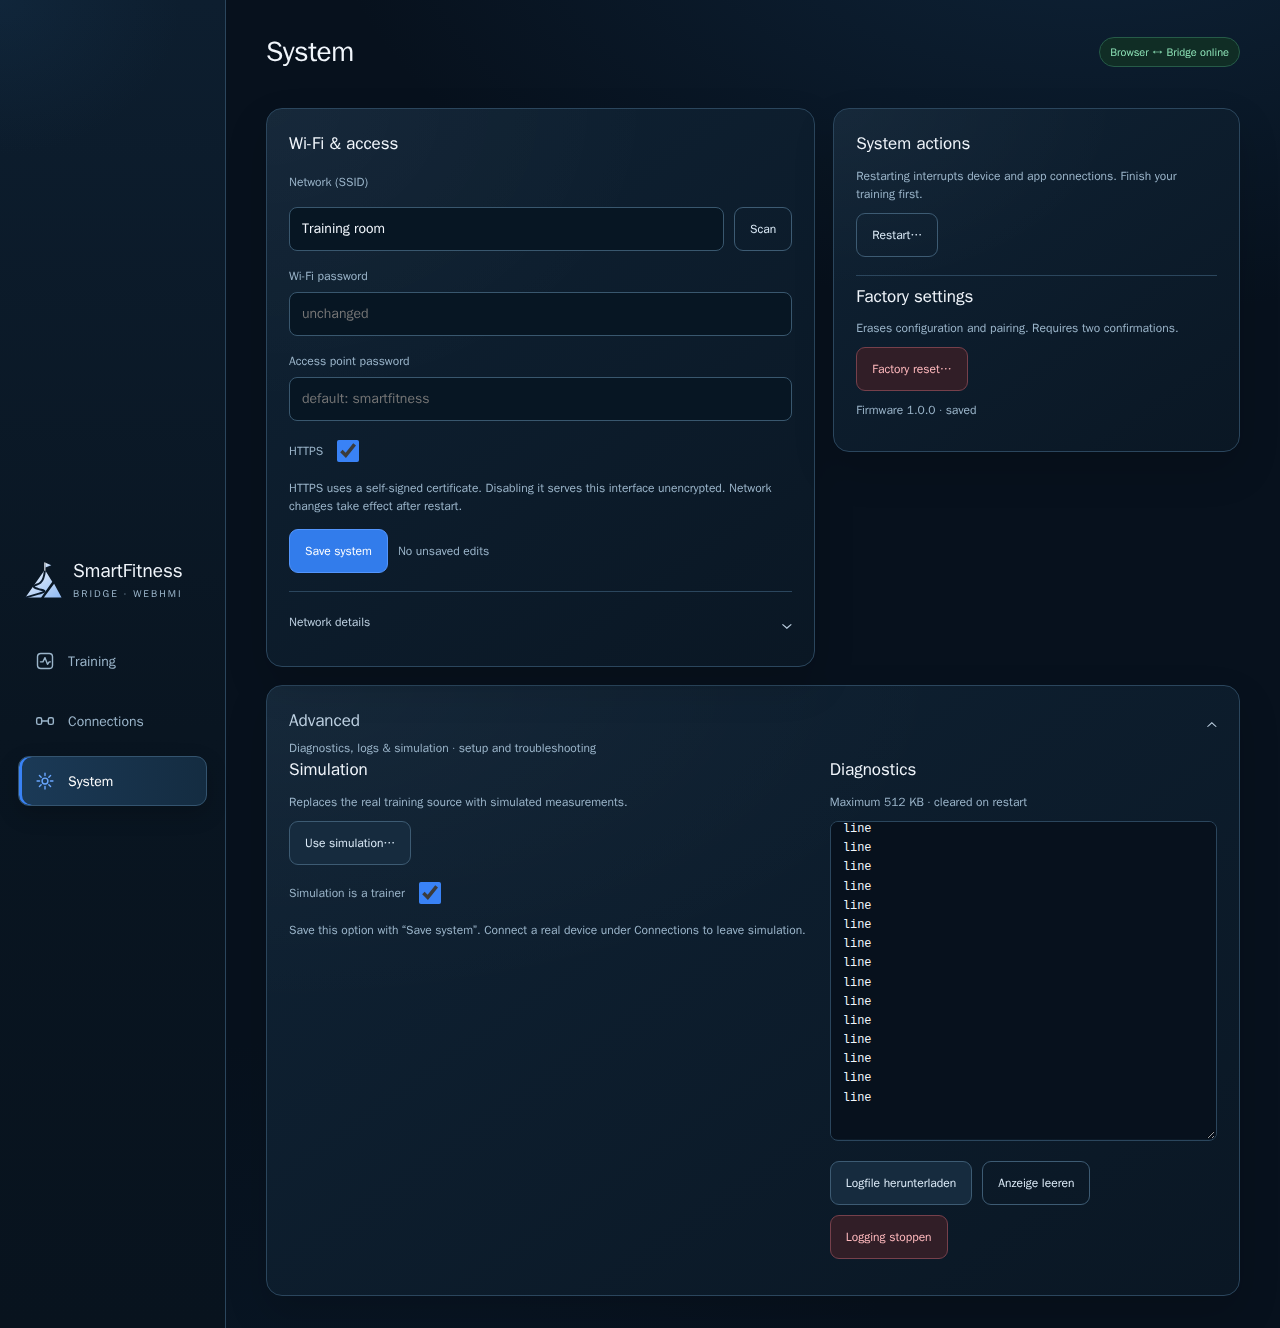
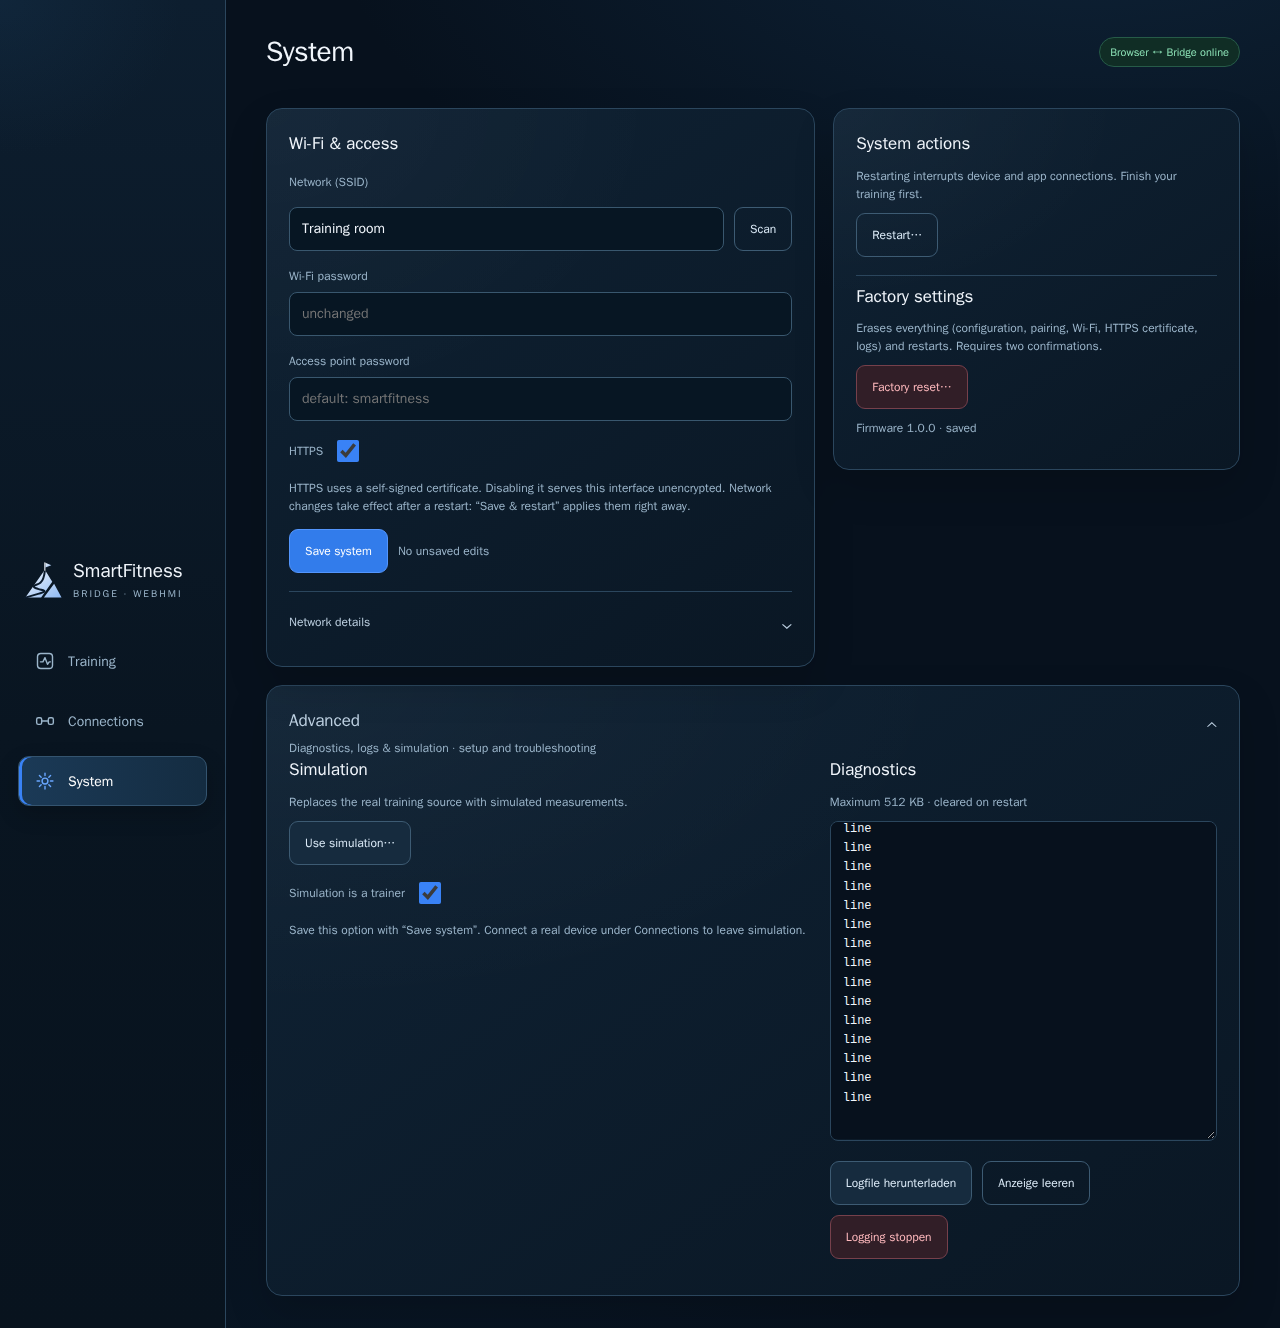
Save & restart for network settings in the web UI
Wi-Fi, access point and HTTPS settings only apply after a restart. When
they differ from the saved configuration, the System save button reads
"Save & restart", asks for confirmation, saves, restarts the bridge and
tells where to reconnect. Other system edits keep the plain save.

Changed region(s): [[0.6562, 0.247, 0.875, 0.3396], [0.5, 0.3705, 0.5312, 0.4014], [0.4375, 0.3705, 0.4688, 0.4014]]

diff --git a/src/variants/web/assets/index.html b/src/variants/web/assets/index.html
@@ -73,7 +73,7 @@ details{min-width:0}summary{cursor:pointer;color:#bed1e2;font-size:12px;min-heig
 <section id="set" role="tabpanel" aria-labelledby="tab-set" tabindex="0" hidden><h2>System</h2><div class="two-column">
 <div class="card" id="network-settings"><h3>Wi-Fi & access</h3><label class="field" for="c-wifiSsid"><span>Network (SSID)</span></label><div class="row"><div class="combo"><input id="c-wifiSsid" maxlength="32" placeholder="empty = access point only" role="combobox" aria-autocomplete="none" aria-expanded="false" aria-controls="wifi-list" autocomplete="off"><ul id="wifi-list" role="listbox" aria-label="Wi-Fi networks" hidden></ul></div><button class="b sec" id="btn-wifi-scan" aria-busy="false"><span class="spin" aria-hidden="true"></span>Scan</button></div>
 <label class="field"><span>Wi-Fi password</span><input id="c-wifiPassword" type="password" maxlength="63" placeholder="unchanged"></label><label class="field"><span>Access point password</span><input id="c-apPassword" type="password" maxlength="63" placeholder="unchanged"></label><div class="row"><label for="c-https">HTTPS</label><input id="c-https" type="checkbox"></div>
-<p class="small">HTTPS uses a self-signed certificate. Disabling it serves this interface unencrypted. Network changes take effect after restart.</p><div class="row"><button class="b primary" id="btn-save">Save system</button><span id="system-dirty" class="small" role="status">No unsaved edits</span></div><details class="technical"><summary>Network details</summary><div id="s-net"></div></details></div>
+<p class="small">HTTPS uses a self-signed certificate. Disabling it serves this interface unencrypted. Network changes take effect after a restart: “Save & restart” applies them right away.</p><div class="row"><button class="b primary" id="btn-save">Save system</button><span id="system-dirty" class="small" role="status">No unsaved edits</span></div><details class="technical"><summary>Network details</summary><div id="s-net"></div></details></div>
 <div class="card"><h3>System actions</h3><p class="small">Restarting interrupts device and app connections. Finish your training first.</p><button class="b sec" id="btn-restart">Restart…</button><div class="technical"><h3>Factory settings</h3><p class="small">Erases everything (configuration, pairing, Wi-Fi, HTTPS certificate, logs) and restarts. Requires two confirmations.</p><button class="b danger" id="btn-reset">Factory reset…</button></div><p class="small">Firmware <span id="fw"></span> · <span id="unsaved"></span></p></div></div>
 <details class="card system-advanced" id="advanced"><summary><div><h3>Advanced</h3><span class="small">Diagnostics, logs & simulation · setup and troubleshooting</span></div></summary><div class="two-column">
 <div><h3>Simulation</h3><p class="small">Replaces the real training source with simulated measurements.</p><button class="b" id="btn-sim">Use simulation…</button><div class="row"><label for="c-simulatedTrainer">Simulation is a trainer</label><input id="c-simulatedTrainer" type="checkbox"></div><p class="small">Save this option with “Save system”. Connect a real device under Connections to leave simulation.</p></div>
@@ -87,10 +87,14 @@ details{min-width:0}summary{cursor:pointer;color:#bed1e2;font-size:12px;min-heig
 const $=id=>document.getElementById(id);
 let status={},scan={devices:[],adapters:[]},pending={};
 const dirty=new Set();
+let cfgHttps=location.protocol==="https:",cfgSsid="";
 const editVersion={output:0,system:0};
 let configLoaded=false,configSaving=false;
 function markDirty(scope){dirty.add(scope);editVersion[scope]++;renderDirty()}
-function renderDirty(){for(const scope of["output","system"])$(scope+"-dirty").textContent=dirty.has(scope)?"Unsaved edits":"No unsaved edits"}
+function renderDirty(){for(const scope of["output","system"])$(scope+"-dirty").textContent=dirty.has(scope)?"Unsaved edits":"No unsaved edits";
+ $("btn-save").textContent=networkChanged()?"Save & restart":"Save system"}
+// Wi-Fi, access point and HTTPS settings only take effect after a restart.
+function networkChanged(){return $("c-wifiSsid").value!==cfgSsid||!!$("c-wifiPassword").value||!!$("c-apPassword").value||$("c-https").checked!==cfgHttps}
 let serviceMasks={ftms:0,ant:0},antAvailable=false,configuredFtmsServices=0,outputDirty=false,configuredOutput="ble-ftms";
 const outputServices={ftms:[["ftms","FTMS",1],["cps","CPS",2],["hr","HR",4],["csc","CSC",8],["rsc","RSC",16]],ant:[["fec","FE-C",1],["power","Power",2],["hr","HR",4],["speed-cadence","Speed / cadence",8],["sdm","Footpod",16]]};
 function outputEntries(kind){return kind==="ftms"?(status.ftmsOutput||{}).services||[]:(status.antOutput||{}).channels||[]}
@@ -303,7 +307,6 @@ function renderScan(sc){
    btn.disabled=true;await run("pair",{address:d.address,addressType:d.addressType,adapter:sel.value});btn.disabled=false};
   const svc=el("td",(d.services||[]).join(" "),"small"),ad=el("td"),act=el("td");ad.append(sel);act.append(btn);
   const rssi=el("td",d.rssi);rssi.dataset.label="RSSI";svc.dataset.label="Services";ad.dataset.label="Adapter";tr.append(name,rssi,svc,ad,act);return tr}));}
-let cfgHttps=location.protocol==="https:";
 function renderConfig(c){
  configLoaded=true;
  if(!dirty.has("output")){
@@ -314,7 +317,7 @@ function renderConfig(c){
  $("c-outputHint").hidden=$("c-outputProtocol").value!=="ant-fec";
  $("c-ftmsOutputProfile").value=c.ftmsOutputProfile||"auto";renderBridge();
  }
- cfgHttps=c.https!==false;
+ cfgHttps=c.https!==false;cfgSsid=c.wifiSsid||"";
  if(!dirty.has("system")){
  $("c-simulatedTrainer").checked=!!c.simulatedTrainer;$("c-https").checked=cfgHttps;
  $("c-wifiSsid").value=c.wifiSsid||"";$("c-wifiPassword").value="";$("c-apPassword").value="";
@@ -328,11 +331,11 @@ $("btn-connect").onclick=()=>run("connect");$("btn-disconnect").onclick=()=>run(
 $("c-outputProtocol").onchange=()=>{outputDirty=$("c-outputProtocol").value!==configuredOutput;$("c-outputHint").hidden=$("c-outputProtocol").value!=="ant-fec";renderBridge();renderServiceControls()};
 for(const[id,scope]of[["card-bridge","output"],["network-settings","system"],["advanced","system"]])for(const event of["input","change"])$(id).addEventListener(event,e=>{if(e.target.matches("input,select"))markDirty(scope)});
 $("btn-discard-output").onclick=()=>{dirty.delete("output");outputDirty=false;loadConfig()};
-async function saveConfig(scope,body){
+async function saveConfig(scope,body,quiet){
  if(configSaving)return;
  if(!configLoaded){toast("Load settings before saving.",false);return}
  const version=editVersion[scope];configSaving=true;$("btn-save").disabled=true;$("btn-output").disabled=true;
- try{const r=await run("config",{...body,save:true});if(r?.ok){if(editVersion[scope]===version)dirty.delete(scope);if(scope==="output"&&!dirty.has(scope))outputDirty=false;await loadConfig()}}
+ try{const r=await run("config",{...body,save:true},quiet);if(r?.ok){if(editVersion[scope]===version)dirty.delete(scope);if(scope==="output"&&!dirty.has(scope))outputDirty=false;await loadConfig()}return !!r?.ok}
  finally{configSaving=false;$("btn-save").disabled=false;$("btn-output").disabled=false;renderDirty()}
 }
 $("btn-output").onclick=()=>{const body={outputProtocol:$("c-outputProtocol").value,ftmsName:$("c-ftmsName").value,ftmsOutputProfile:$("c-ftmsOutputProfile").value,ftmsOutputServices:serviceMasks.ftms};if(antAvailable)body.antOutputServices=serviceMasks.ant;saveConfig("output",body)};
@@ -345,10 +348,18 @@ $("btn-apply").onclick=async()=>{const v=parseFloat($("ctl-value").value),kind=$
  const commandSource=sourceKey;controlBusy=true;$("ctl-result").textContent="";renderControls();
  try{const r=await run("control",{control:kind,value:v},true);if(commandSource===sourceKey){$("ctl-result").textContent=r?r.message:"Request failed; target not confirmed.";$("ctl-result").className="small "+(r?.ok?"ok":"bad")}}
  finally{controlBusy=false;renderControls()}};
-$("btn-save").onclick=()=>{const b={simulatedTrainer:$("c-simulatedTrainer").checked,wifiSsid:$("c-wifiSsid").value};
+$("btn-save").onclick=async()=>{if(configSaving)return;const b={simulatedTrainer:$("c-simulatedTrainer").checked,wifiSsid:$("c-wifiSsid").value};
  b.https=$("c-https").checked;
  if($("c-wifiPassword").value)b.wifiPassword=$("c-wifiPassword").value;if($("c-apPassword").value)b.apPassword=$("c-apPassword").value;
- saveConfig("system",b)};
+ const restart=networkChanged(),ssidChanged=b.wifiSsid!==cfgSsid;
+ if(restart&&!confirm("Save and restart the bridge now? This interrupts device and app connections"+(ssidChanged?" and may disconnect this page.":".")))return;
+ if(!await saveConfig("system",b,restart)||!restart)return;
+ const r=await run("restart",undefined,true);if(!r)return;if(!r.ok){toast(r.message,false);return}
+ const where=(b.https?"https://":"http://")+"smartfitness.local/",
+  hint=!ssidChanged?"Saved; the bridge is restarting.":b.wifiSsid?"Saved; the bridge restarts and joins “"+b.wifiSsid+"”. Connect this device to that network and open "+where+" (if it cannot join, its access point returns after about 20 s).":"Saved; the bridge restarts as access point only. Connect to its access point and open "+where;
+ $("system-dirty").textContent=hint;toast(hint,true);
+ if(!ssidChanged)afterRestart()};
+function afterRestart(){if(cfgHttps!==(location.protocol==="https:"))setTimeout(()=>{location.href=(cfgHttps?"https://":"http://")+location.hostname+"/"},8000)}
 // Select-only dropdowns with the Wi-Fi list look. The hidden native select stays the source of truth,
 // so programmatic .value writes, option.disabled/hidden and change listeners keep working.
 function dropdown(sel){
@@ -421,7 +432,7 @@ $("btn-wifi-scan").onclick=async()=>{const b=$("btn-wifi-scan");if(b.getAttribut
   renderWifi(s.networks||[]);if(wifiNets.length){ssid.focus();wifiOpen(true)}else toast("no Wi-Fi networks found",false)}
  catch(e){toast("Wi-Fi scan failed: "+e.message,false)}finally{wifiPushed=null;b.setAttribute("aria-busy","false")}};
 $("btn-restart").onclick=async()=>{if(dirty.size){toast("Save or discard your edits before restarting.",false);return}if(!confirm("Restart the bridge and interrupt all connections?"))return;const r=await run("restart");
- if(r&&r.ok&&cfgHttps!==(location.protocol==="https:"))setTimeout(()=>{location.href=(cfgHttps?"https://":"http://")+location.hostname+"/"},8000)};
+ if(r&&r.ok)afterRestart()};
 $("btn-reset").onclick=()=>{if(confirm("Erase all settings, the pairing, Wi-Fi, the HTTPS certificate and logs?")&&confirm("This cannot be undone. Restore factory settings and restart?"))run("factory-reset",undefined,true).then(r=>{if(!r)return;dirty.clear();
  toast(r.ok?"Factory reset: the bridge restarts as access point SmartFitness-XXXX with the default password.":r.message,r.ok)})};
 // #ifdef DEBUG_WEB

diff --git a/scripts/web_screenshots.py b/scripts/web_screenshots.py
@@ -339,6 +339,20 @@ def render(browser, output, name, width, height):
         assert len(commands) == before + 1, (selector, commands)
         assert commands[-1][0] == endpoint
 
+    def save_and_restart(hint):
+        expect(page.locator("#btn-save")).to_have_text("Save & restart")
+        before = len(commands)
+        page.once("dialog", lambda dialog: dialog.dismiss())
+        page.locator("#btn-save").click()
+        page.wait_for_timeout(200)
+        assert len(commands) == before, "saved without confirmation"
+        page.once("dialog", lambda dialog: dialog.accept())
+        page.locator("#btn-save").click()
+        expect(page.locator("#system-dirty")).to_contain_text(hint)
+        page.wait_for_function("Object.keys(pending).length === 0 && !configSaving")
+        assert [c[0] for c in commands[before:]] == ["config", "restart"], commands[before:]
+        expect(page.locator("#btn-save")).to_have_text("Save system")
+
     page.locator("#ctl-value").fill("")
     page.locator("#btn-apply").click()
     expect(page.locator("#toast")).to_have_text("enter a number")
@@ -445,10 +459,20 @@ def render(browser, output, name, width, height):
     page.locator("#tab-set").click()
     check_view(page, "set", width < 700)
     expect(page.locator("#advanced")).not_to_have_attribute("open", "")
+    expect(page.locator("#btn-save")).to_have_text("Save & restart")  # SSID edited above
     page.locator("#c-https").uncheck()
-    command("#btn-save", "config")
-    assert commands[-1] == ("config", {"simulatedTrainer": True, "wifiSsid": "New network",
+    save_and_restart("joins “New network”")
+    assert commands[-2] == ("config", {"simulatedTrainer": True, "wifiSsid": "New network",
                                       "https": False, "save": True})
+    # Settings that apply live keep the plain save.
+    page.evaluate("""() => {const box=document.getElementById("c-simulatedTrainer");
+        box.checked=false; box.dispatchEvent(new Event("change", {bubbles: true}))}""")
+    expect(page.locator("#btn-save")).to_have_text("Save system")
+    command("#btn-save", "config")
+    page.locator("#c-wifiSsid").fill("Other")
+    expect(page.locator("#btn-save")).to_have_text("Save & restart")
+    page.locator("#c-wifiSsid").fill("New network")
+    expect(page.locator("#btn-save")).to_have_text("Save system")
     page.locator("#btn-wifi-scan").click()
     expect(page.locator("#wifi-list")).to_be_visible(timeout=10000)
     assert failing_wifi_posts == [0], "scan request was not retried"
@@ -492,7 +516,9 @@ def render(browser, output, name, width, height):
     stalled_wifi_polls.clear()
     page.locator("#c-wifiSsid").blur()
     expect(page.locator("#system-dirty")).to_have_text("Unsaved edits")
-    command("#btn-save", "config")
+    page.locator("#c-wifiPassword").fill("training-pass")
+    save_and_restart("joins “Training room”")
+    assert commands[-2][1]["wifiPassword"] == "training-pass"
     before = len(commands)
     page.once("dialog", lambda dialog: dialog.dismiss())
     page.locator("#btn-restart").click()

diff --git a/docs/developer-guide.md b/docs/developer-guide.md
@@ -727,7 +727,7 @@ resources) has three tabs:
 
 - **Training:** all six effective machine profiles have a primary arc, two secondary values, four metric cards and a five-minute browser-local history. Values appear once. Missing or stale readings show `–`. Compact power/resistance/incline/speed controls follow `controls` and `canControl`; the asynchronous result is separate from the confirmed target. Speed changes require confirmation. Pause/Stop are omitted because the web API has no such commands.
 - **Connections:** add/change device opens scan and adapter selection; pairing is saved immediately. Technical details separate advertised services from actual subscription state. The bridge output card groups name, format, profile and BLE services/ANT+ channels with one Save output action. Unavailable services remain disabled; Auto retains baseline FTMS/FE-C-only behavior. BLE topology changes still require save, restart and client re-pairing. FE-C plus Power warns about duplicate power sources. Receiving app connection and control ownership are displayed separately.
-- **System:** Wi-Fi scan/credentials, AP password, HTTPS, restart, factory reset and firmware. Network changes apply after restart. Output and system edits are tracked separately and preserved across navigation and WebSocket configuration updates. Factory reset has two confirmations. **Advanced** is collapsed by default and contains simulation and, in `DEBUG_WEB` builds, diagnostic logs.
+- **System:** Wi-Fi scan/credentials, AP password, HTTPS, restart, factory reset and firmware. Network changes apply after restart: once the SSID, Wi-Fi/AP password or HTTPS differs from the saved configuration, the save button reads **Save & restart**, asks for confirmation, saves, restarts and tells where to reconnect (other system edits keep a plain **Save system**). Output and system edits are tracked separately and preserved across navigation and WebSocket configuration updates. Factory reset has two confirmations. **Advanced** is collapsed by default and contains simulation and, in `DEBUG_WEB` builds, diagnostic logs.
 
 The [web design and gallery](hmi/README.md#web-design) describe responsive layouts,
 metric units, profile mapping and history limits. All history is collected from

diff --git a/README.md b/README.md
@@ -38,8 +38,8 @@ the board's 16 MB flash layout; do not select a different partition scheme.
 1. After flashing, connect to the Wi-Fi access point named `SmartFitness-XXXX`.
    Its initial password is `smartfitness`; change it before normal use.
 2. Open `https://192.168.4.1/` and accept the browser warning for the
-   self-signed certificate. In **System**, enter your home Wi-Fi details and
-   save/restart, or continue using the access point.
+   self-signed certificate. In **System**, pick your home Wi-Fi with **Scan**,
+   enter its password and click **Save & restart**, or continue using the access point.
 3. Wake the fitness device, disconnect other apps from it, then use
    **Connections → Add device → Scan** and **Pair**. Check **Training** for
    live measurements.
